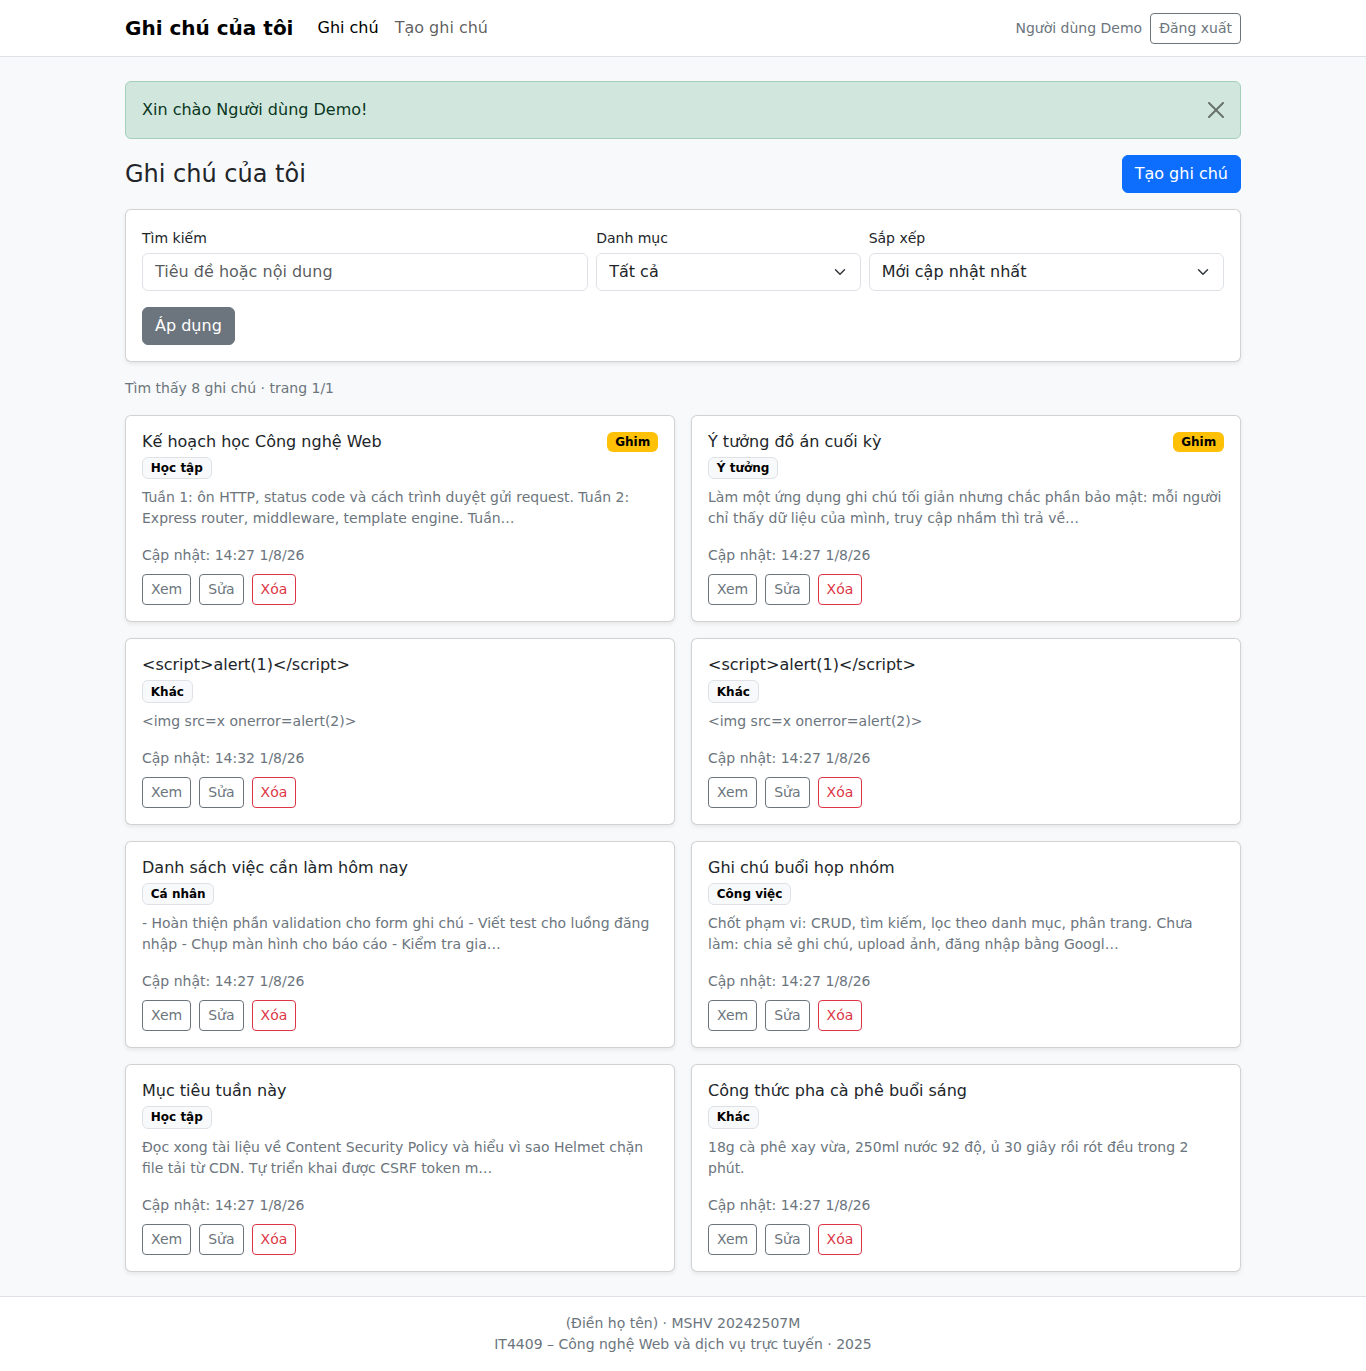
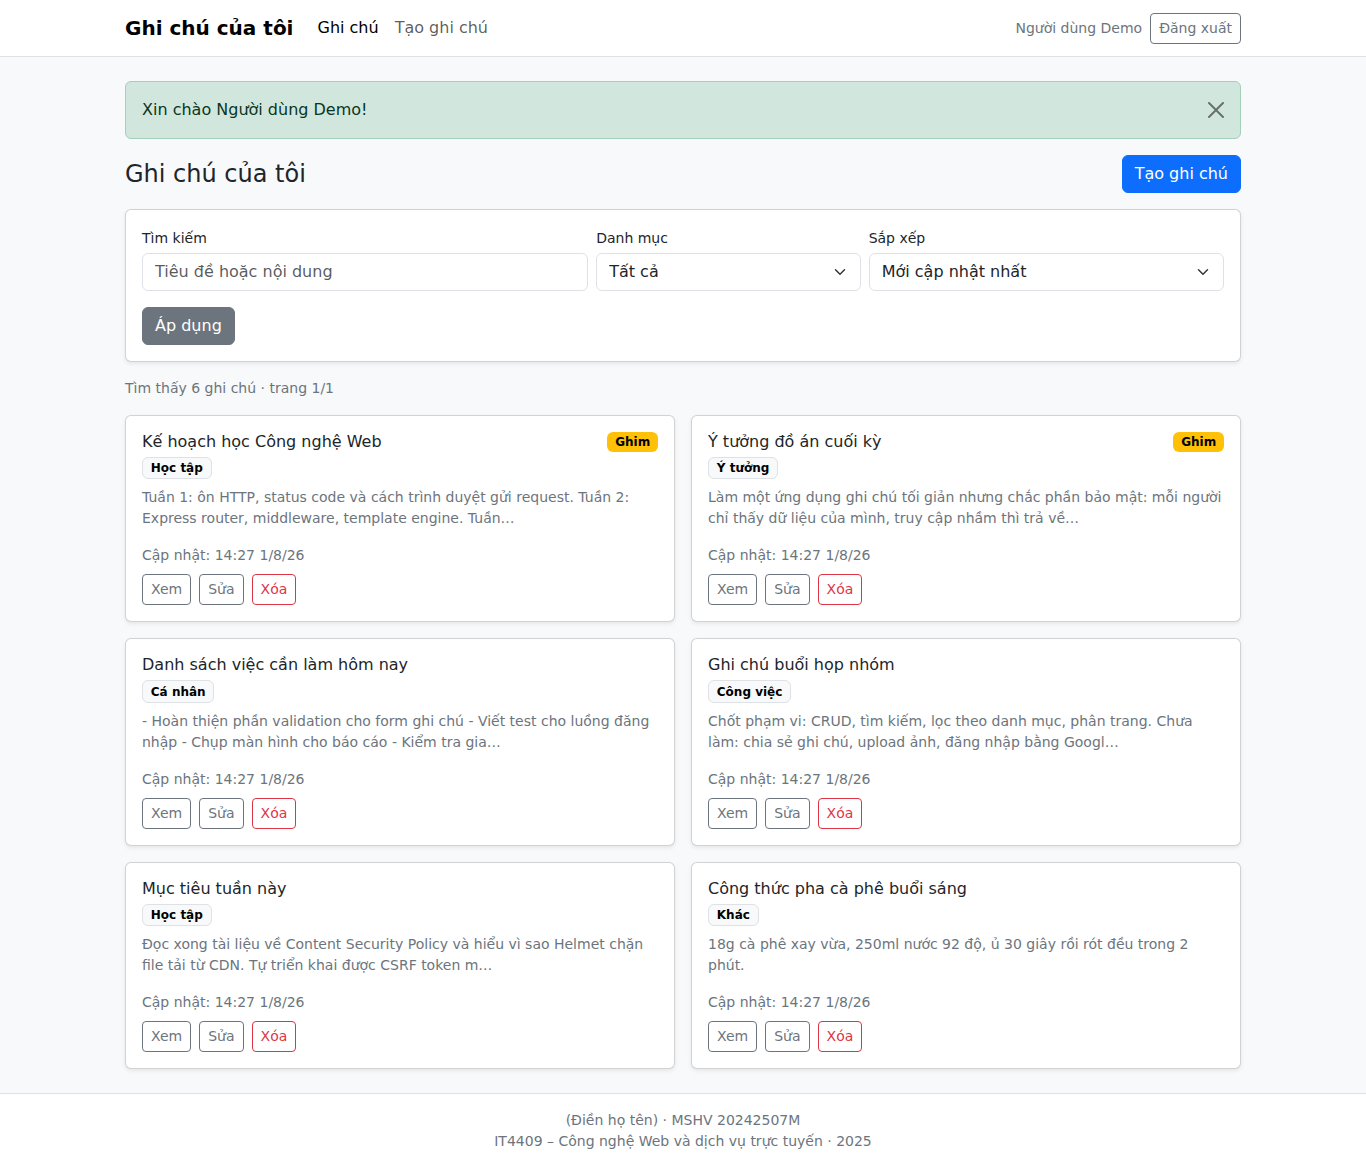
Gộp normalizeEmail về một chỗ, bỏ tài liệu ôn vấn đáp khỏi git
Service và repository đang có hai hàm normalizeEmail làm y hệt nhau,
sinh ra sau lần sửa bug seed. Gộp về repository để chỉ còn một nơi
định nghĩa email hợp lệ trông như thế nào.

docs/vandap.md là ghi chú cá nhân chuẩn bị cho buổi vấn đáp nên đưa
vào .gitignore, không công khai trong repository.

Changed region(s): [[0.0922, 0.0, 0.9224, 0.9863], [0.6149, 0.1541, 0.7687, 0.2466], [0.4305, 0.1541, 0.4919, 0.2466]]

diff --git a/src/services/auth.service.js b/src/services/auth.service.js
@@ -11,22 +11,18 @@ const { AppError } = require("../utils/app-error");
 const DUMMY_HASH =
   "$2b$12$VJJmVJIZB2lU..INDr.vc..YrHcO79xmejJa5Ck3MioGxBdeQZlhS";
 
-/** Email luôn lưu ở dạng chữ thường để so sánh và kiểm tra trùng nhất quán. */
-function normalizeEmail(email) {
-  return String(email).trim().toLowerCase();
-}
-
 async function register({ fullName, email, password }) {
-  const normalizedEmail = normalizeEmail(email);
-
-  if (userRepository.findByEmail(normalizedEmail)) {
+  // Không tự chuẩn hóa email ở đây: repository đã làm việc đó cho cả lúc tra
+  // cứu lẫn lúc ghi, nên chỉ có đúng một nơi định nghĩa "email hợp lệ trông
+  // như thế nào".
+  if (userRepository.findByEmail(email)) {
     throw new AppError("Email đã được sử dụng", 409, "EMAIL_TAKEN");
   }
 
   const passwordHash = await bcrypt.hash(password, env.bcryptRounds);
   return userRepository.create({
     fullName: String(fullName).trim(),
-    email: normalizedEmail,
+    email,
     passwordHash,
   });
 }
@@ -37,7 +33,7 @@ async function register({ fullName, email, password }) {
  * một email có đăng ký hay chưa.
  */
 async function verifyCredentials(email, password) {
-  const user = userRepository.findByEmail(normalizeEmail(email));
+  const user = userRepository.findByEmail(email);
   if (!user) {
     await bcrypt.compare(String(password), DUMMY_HASH);
     return null;
@@ -49,4 +45,4 @@ async function verifyCredentials(email, password) {
   return { id: user.id, email: user.email, fullName: user.full_name };
 }
 
-module.exports = { register, verifyCredentials, normalizeEmail };
+module.exports = { register, verifyCredentials };
